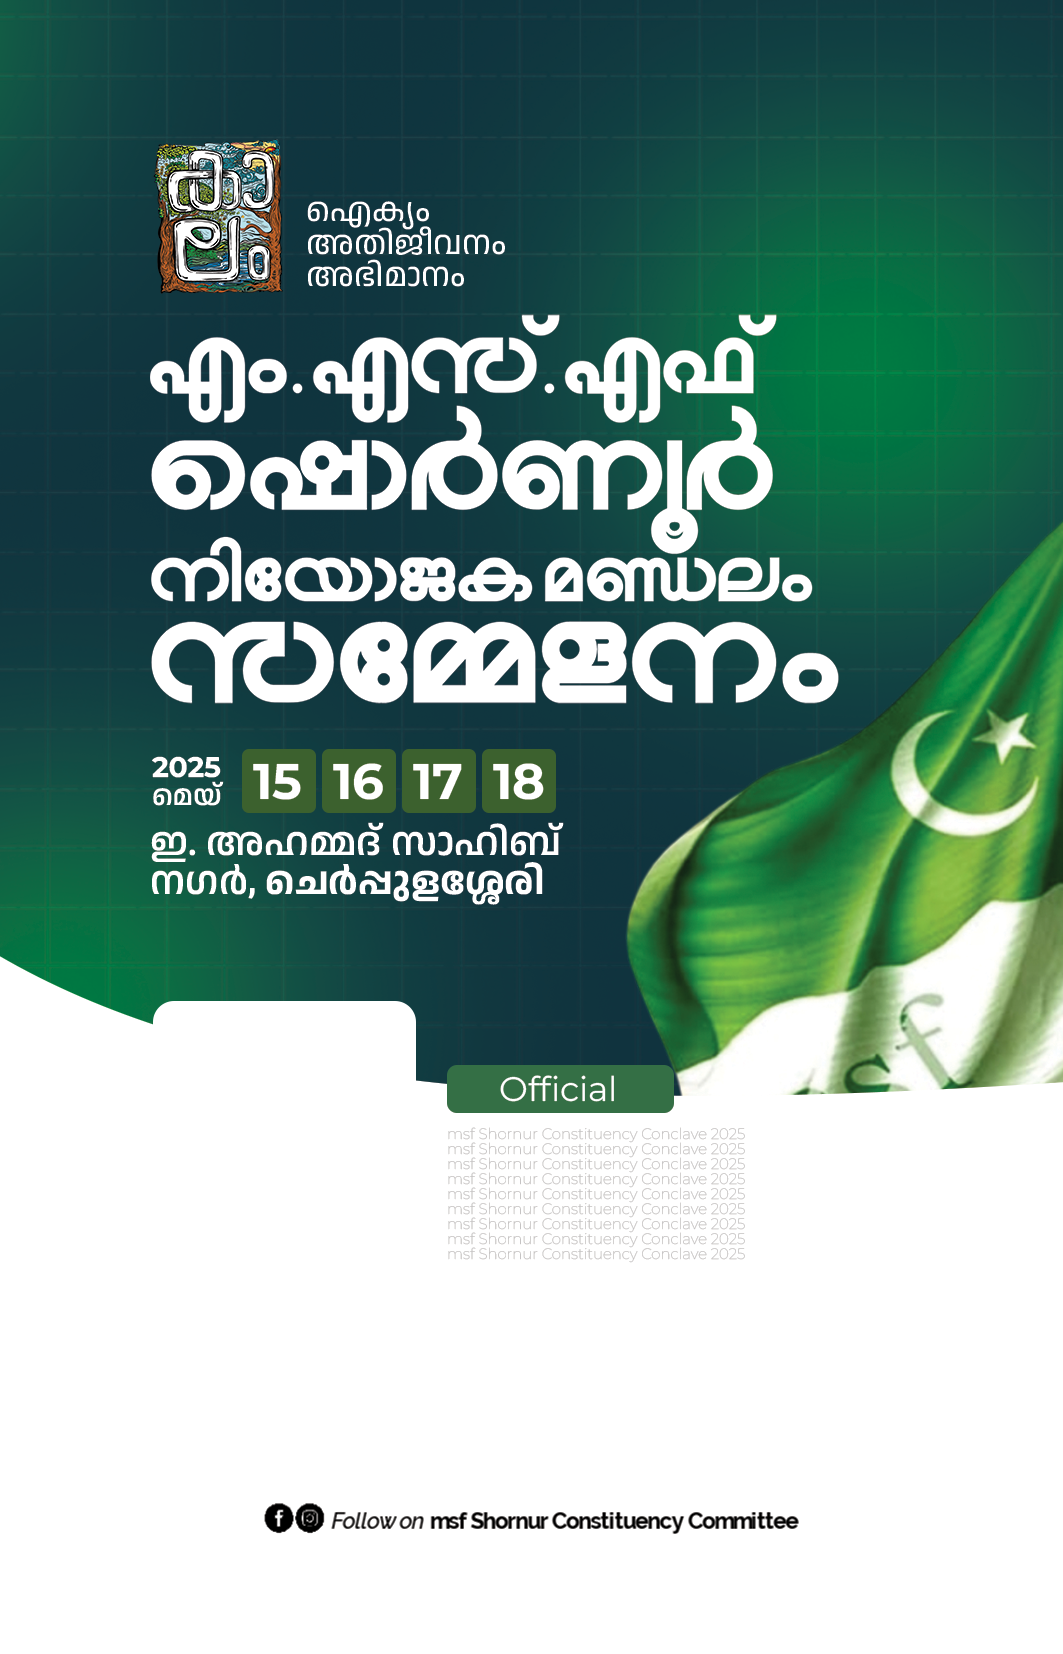
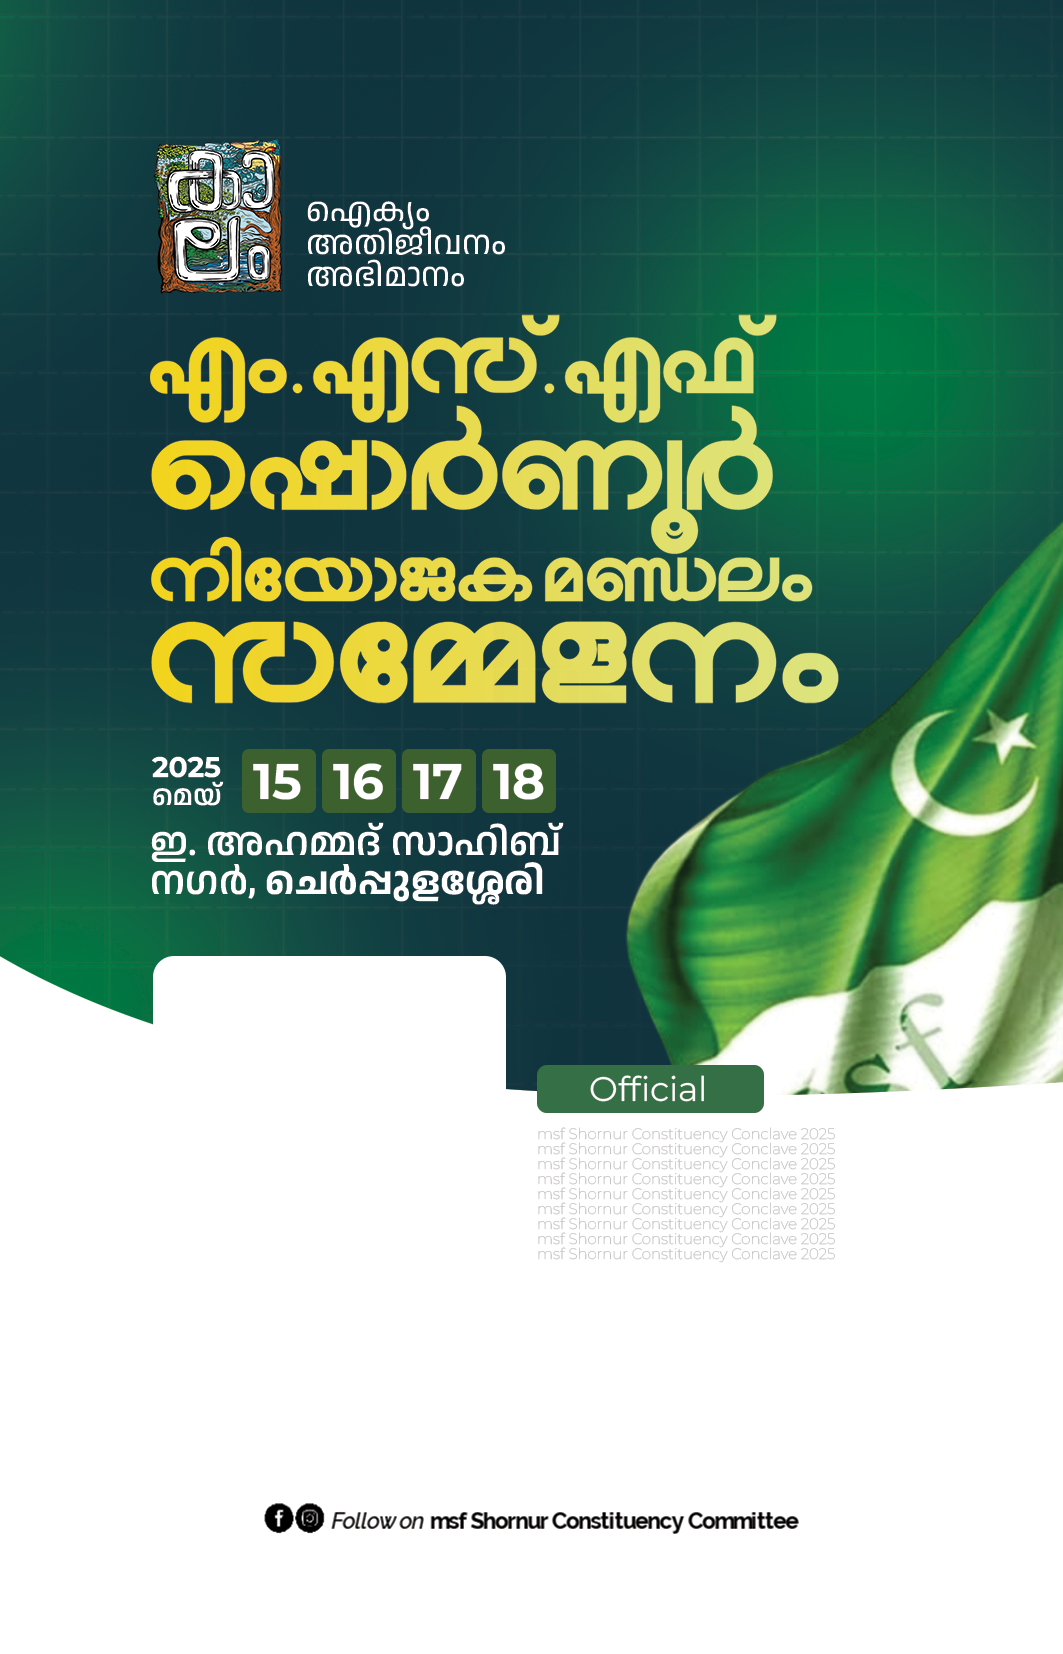
add App

Changed region(s): [[0.1242, 0.185, 0.8071, 0.4317], [0.1242, 0.555, 0.7761, 0.7709]]

diff --git a/src/App.jsx b/src/App.jsx
@@ -4,6 +4,7 @@ import './App.css';
 
 const App = () => {
   const [uploadedImage, setUploadedImage] = useState(null);
+  const [zoom, setZoom] = useState(1); // 1 = 100%
   const posterRef = useRef();
 
   const handleImageChange = (e) => {
@@ -24,6 +25,10 @@ const App = () => {
     });
   };
 
+  const handleZoomChange = (e) => {
+    setZoom(parseFloat(e.target.value));
+  };
+
   return (
     <div className="poster-container">
       <div className="poster-wrapper" ref={posterRef}>
@@ -34,14 +39,17 @@ const App = () => {
           className="poster-bg"
         />
 
-        {/* Image Upload Area */}
+        {/* Upload Area */}
         <label className="upload-area">
           {uploadedImage ? (
-            <img
-              src={uploadedImage}
-              alt="Uploaded"
-              className="uploaded-image"
-            />
+            <div className="image-wrapper">
+              <img
+                src={uploadedImage}
+                alt="Uploaded"
+                className="uploaded-image"
+                style={{ transform: `scale(${zoom})` }}
+              />
+            </div>
           ) : (
             <span className="upload-text">Click to upload image</span>
           )}
@@ -65,6 +73,22 @@ const App = () => {
           suppressContentEditableWarning
         ></p>
       </div>
+
+      {/* Zoom Slider */}
+      {uploadedImage && (
+        <div style={{ marginTop: '15px' }}>
+          <label htmlFor="zoom" style={{ marginRight: '10px' }}>Zoom:</label>
+          <input
+            type="range"
+            id="zoom"
+            min="1"
+            max="2"
+            step="0.01"
+            value={zoom}
+            onChange={handleZoomChange}
+          />
+        </div>
+      )}
 
       {/* Download Button */}
       <button className="download-button" onClick={downloadAsPNG}>

diff --git a/src/App.css b/src/App.css
@@ -1,4 +1,5 @@
 /* Main Container */
+
 .poster-container {
   display: flex;
   flex-direction: column;
@@ -26,8 +27,8 @@
 /* Upload Area */
 .upload-area {
   position: absolute;
-  bottom: 193px;
-  left: 110px;
+  bottom: 201px;
+  left: 142px;
   width: 192px;
   height: 279px;
   background-color: rgba(255, 255, 255, 0.3);
@@ -42,11 +43,29 @@
 /* Uploaded Image Style */
 .uploaded-image {
   position: absolute;
-  width: 190px;
-  height: 279px;
-  object-fit: cover;
+  width: 257px;
+  height: 330px;
+  object-fit: cover; /* Crop and fill */
+  object-position: center top; /* Adjust focus point */
   border-radius: 15px;
   z-index: 2;
+}
+.image-wrapper {
+  position: absolute;
+  width: 257px;
+  height: 330px;
+  overflow: hidden;
+  border-radius: 15px;
+  z-index: 2;
+}
+
+.uploaded-image {
+  width: 100%;
+  height: 100%;
+  object-fit: cover;
+  object-position: center top;
+  transform-origin: center center;
+  transition: transform 0.2s ease;
 }
 
 /* Upload Text (Prompt) */
@@ -60,8 +79,8 @@
 .text-primary {
   position: absolute;
   bottom: 210px;
-  left: 320px;
-  width: 250px;
+  left: 380px;
+  width: 370px;
   font-size: 25px;
   font-weight: bold;
   color: green;
@@ -72,10 +91,10 @@
 .text-secondary {
   position: absolute;
   bottom: 195px;
-  left: 320px;
-  width: 400px;
+  left: 380px;
+  width: 370px;
   font-size: 18px;
-  color: green;
+  color: black;
   font-family: 'Anek Malayalam', sans-serif;
   z-index: 3;
 }
